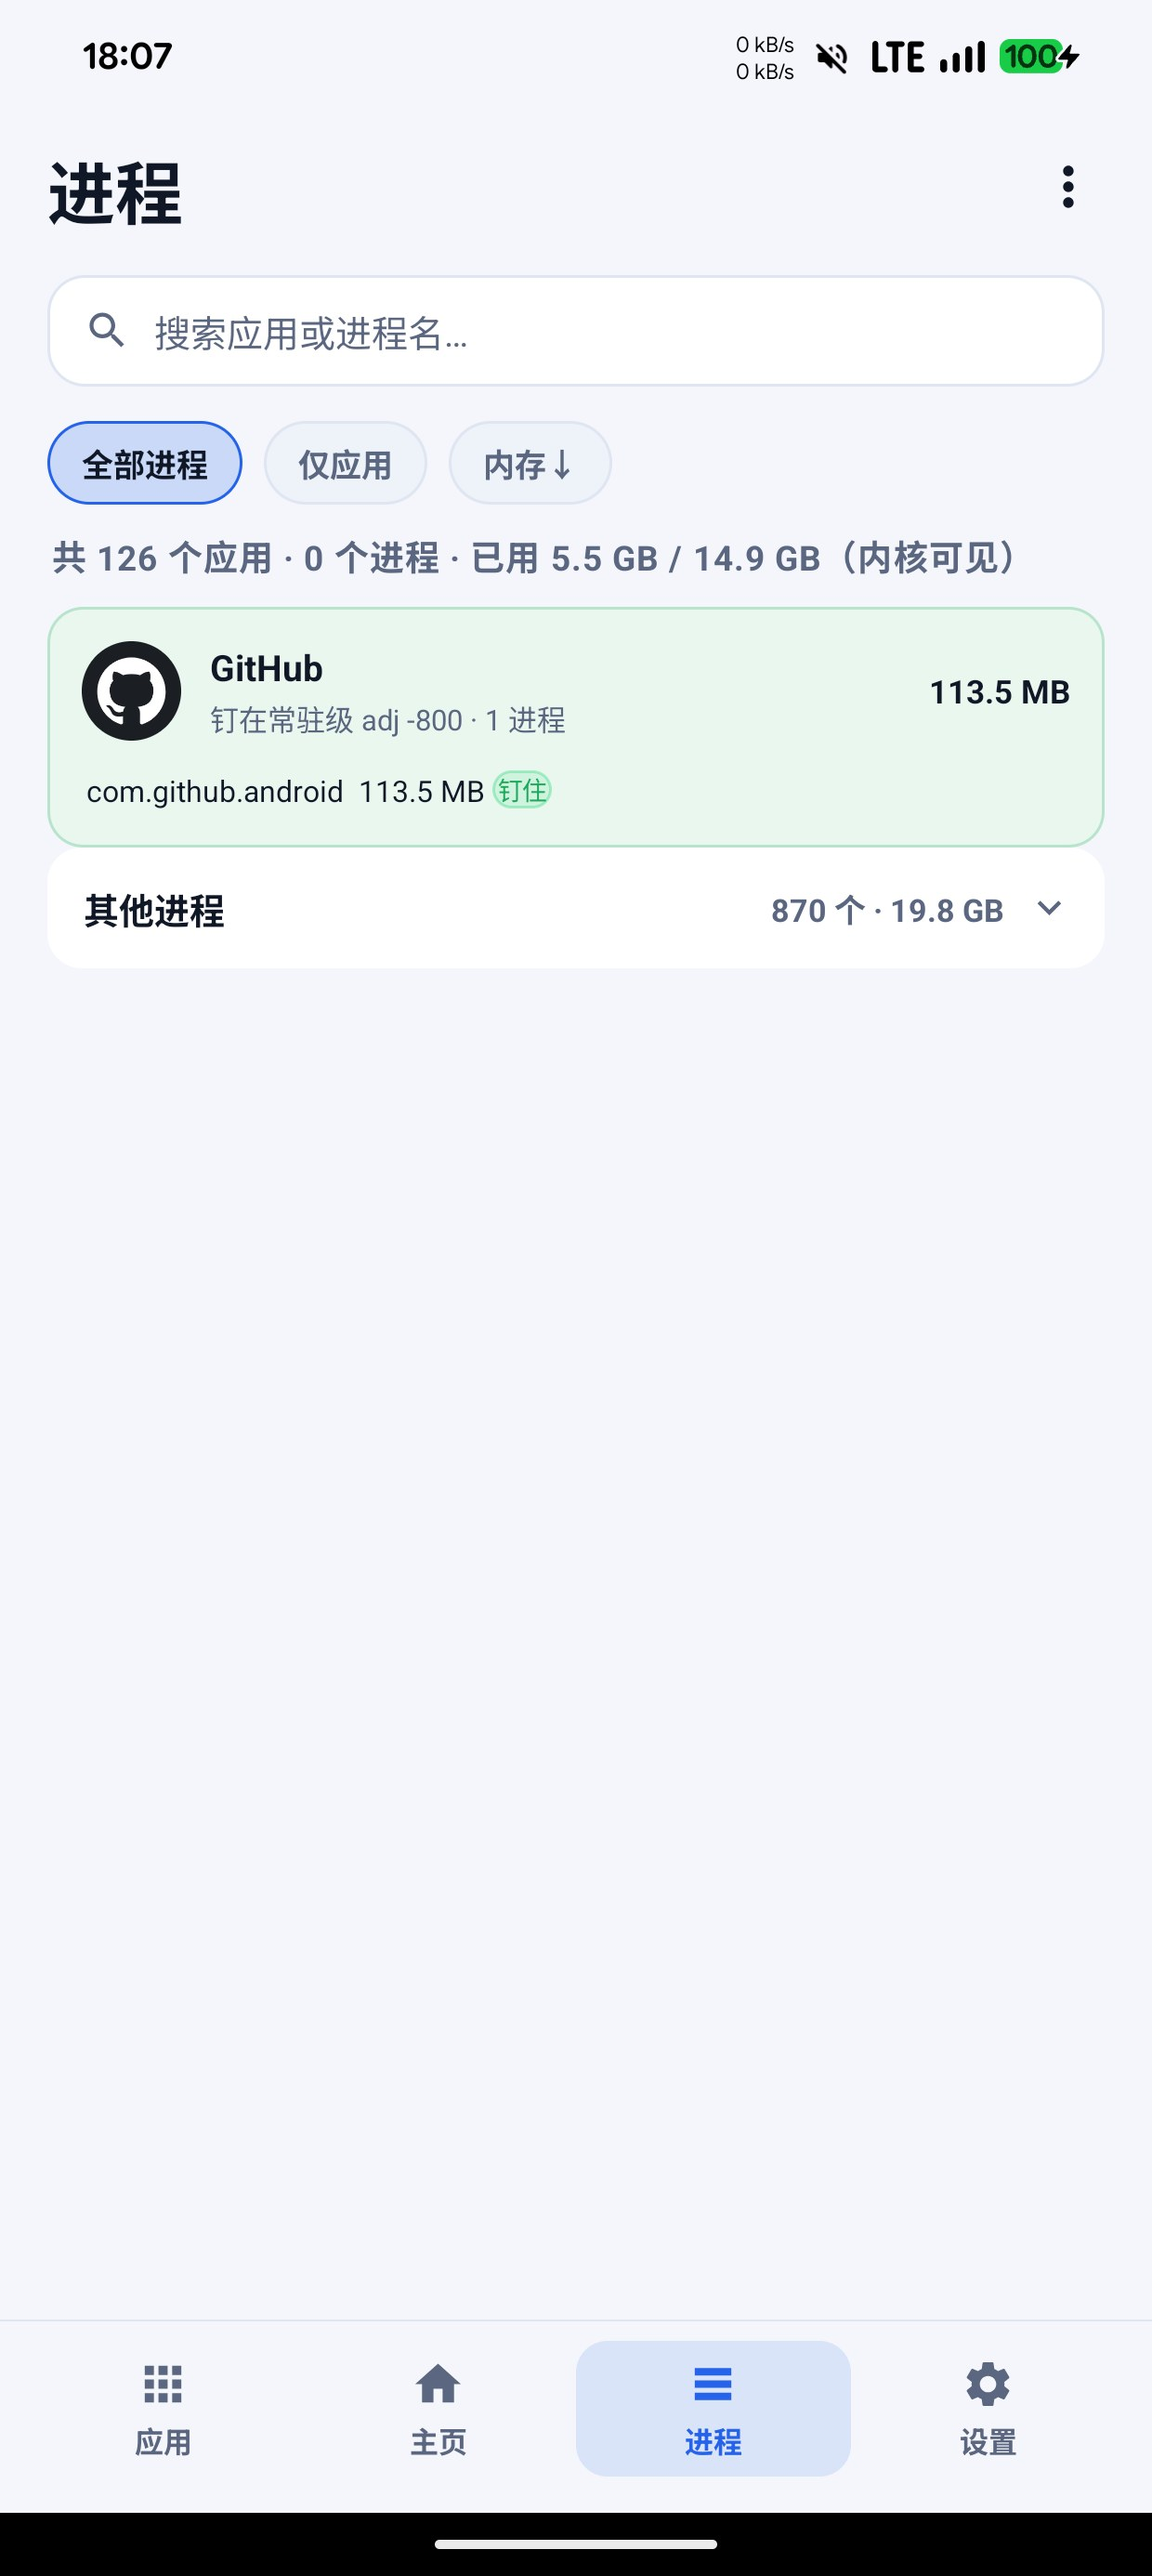
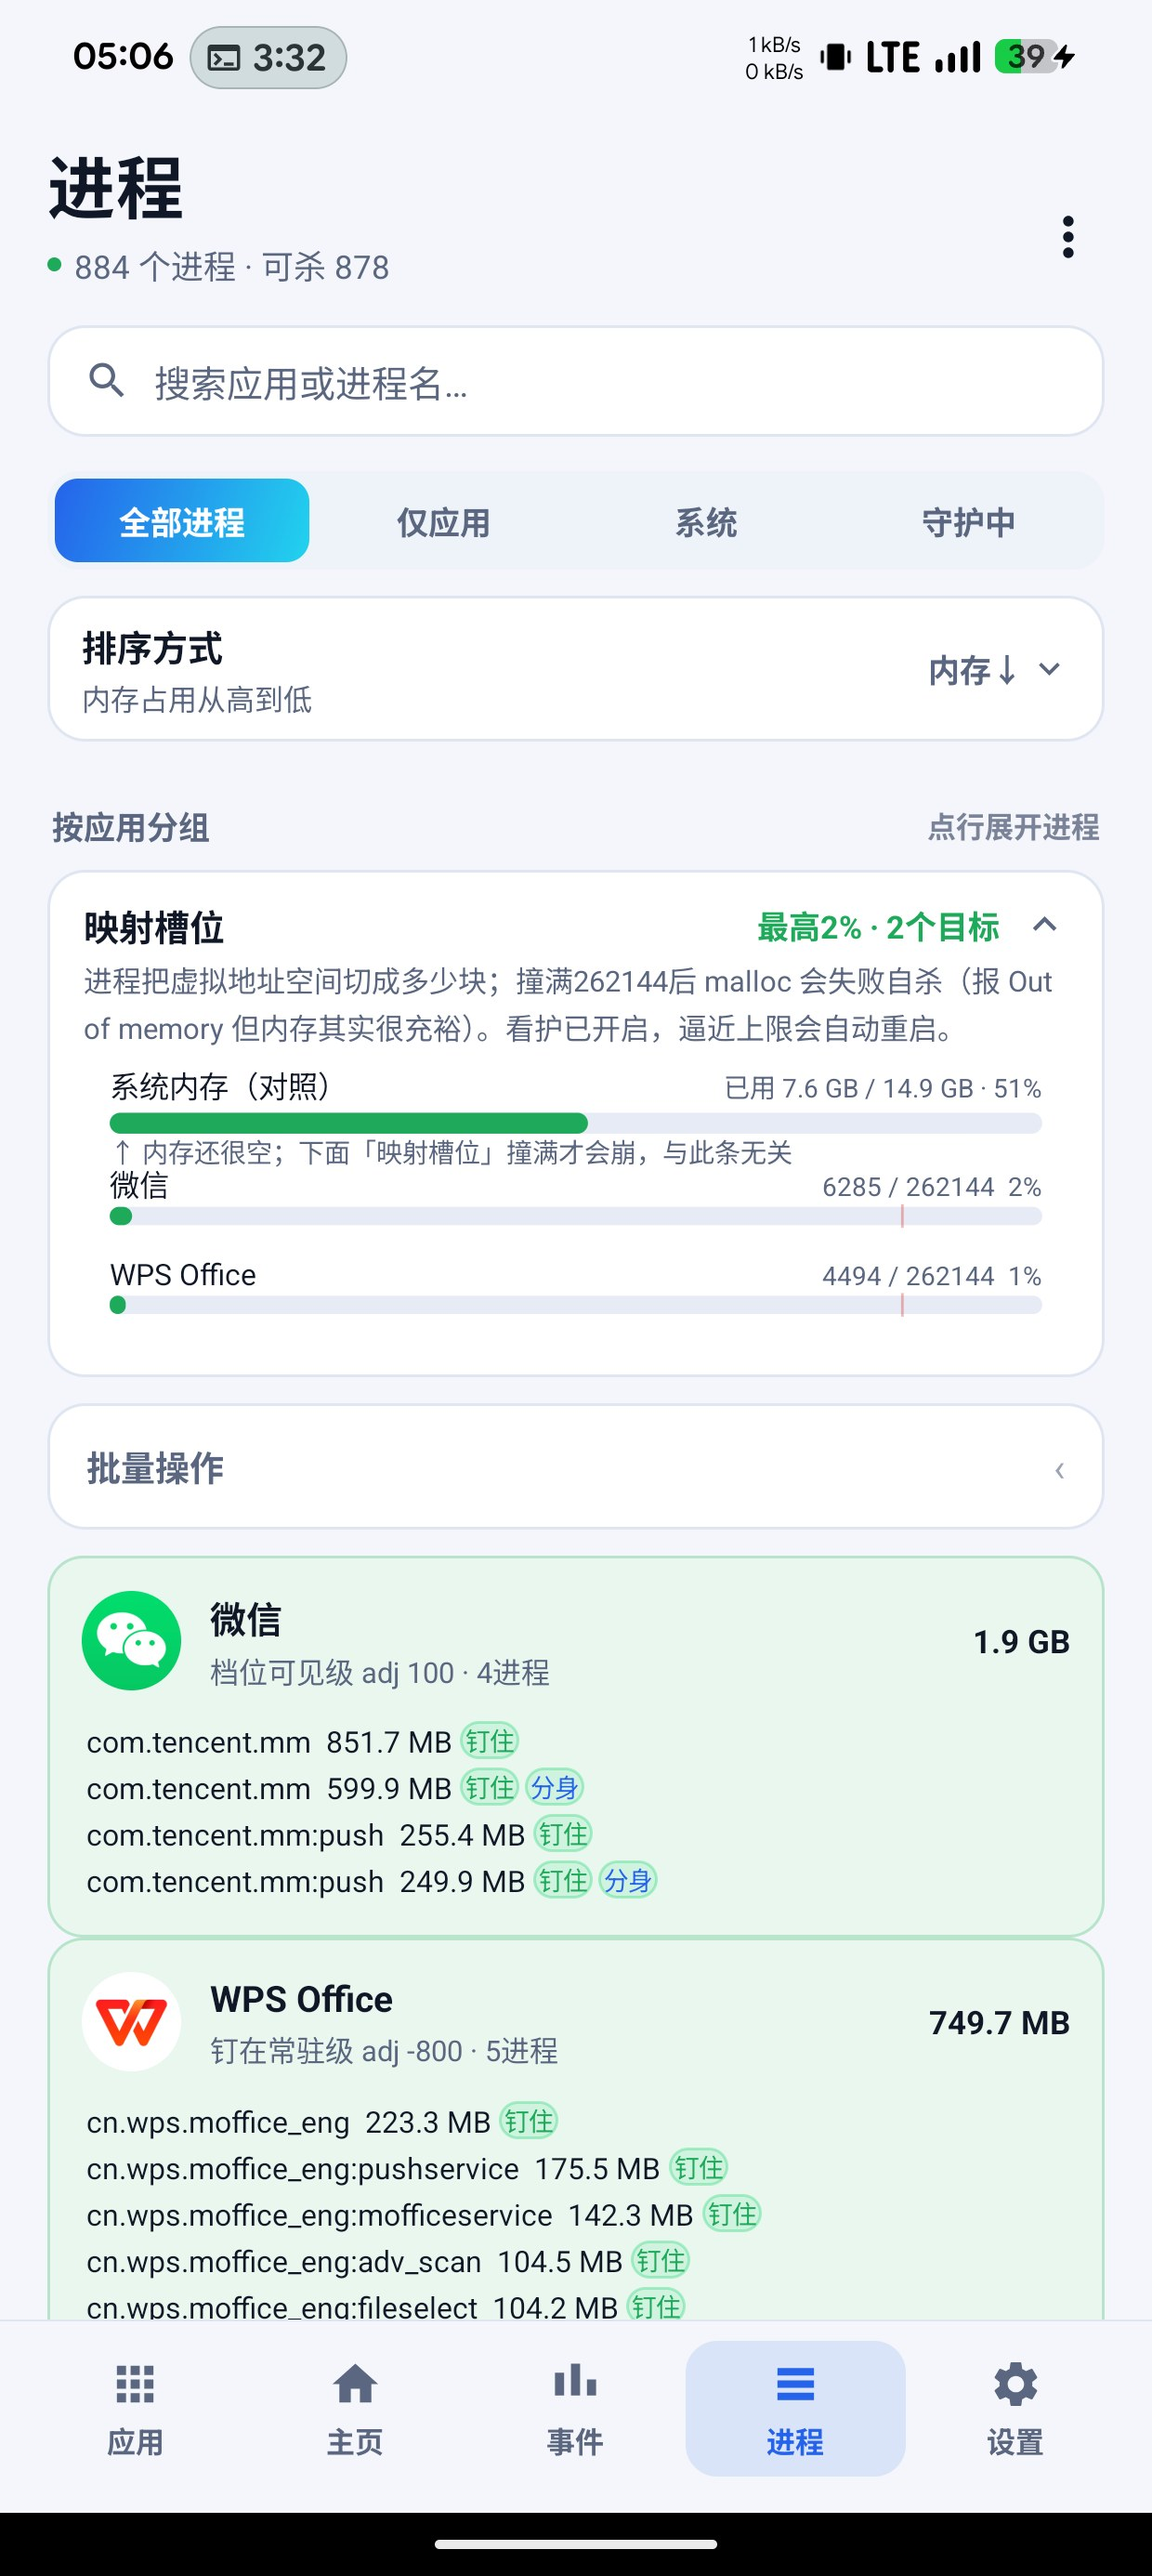
docs: 更新至 v3.5.2 build4363（五页导航含事件页 / 白屏与补拉修复 / debug 自动抓现场 / 新增 events 截图）

diff --git a/README.md b/README.md
@@ -14,7 +14,15 @@
 
 在 LSPosed Manager 中搜索「进程保活」安装，或从
 [Releases](https://github.com/Xposed-Modules-Repo/io.github.guys222.processkeepalive/releases) 下载最新 APK
-（如 `PKA-v3.5.0-build4232.apk`，已用项目专用 keystore 签名，可直接覆盖安装）。
+（如 `PKA-v3.5.2-build4363.apk`，已用项目专用 keystore 签名，可直接覆盖安装）。
+
+每个版本都发**两个包**，功能完全一样：
+
+- `PKA-v<版本>-build<号>.apk` —— 正式包，装给所有人；
+- `PKA-v<版本>-build<号>-debug.apk` —— 测试包，**遇到问题请装这个**：白屏、卡死（ANR）、拉不起来时
+  它会自动把现场存进 `/data/system/pka_hook.log`，导诊断包时一并带走。两者同签名，可互覆盖。
+
+**装完必须重启手机** —— 钩子跑在系统框架里，不重启加载的还是旧代码。
 
 启用后**必须**在 LSPosed 中把作用域勾上「**系统框架（android）**」——所有钩子都注入
 `system_server`，不勾这一项模块不工作。
@@ -23,16 +31,21 @@
 
 ## 界面
 
-底部四页导航：**主页 / 应用 / 进程 / 设置**，支持深色 / 浅色 / 跟随系统三种主题，附带 4×1 桌面小部件。
+底部五页导航：**应用 / 主页 / 事件 / 进程 / 设置**，支持深色 / 浅色 / 跟随系统三种主题，附带 4×1 桌面小部件。
 
-| 主页 | 应用 | 进程 | 设置 |
-| --- | --- | --- | --- |
-| ![主页](home.jpg) | ![应用](app.jpg) | ![进程](processes.jpg) | ![设置](settings.jpg) |
+| 应用 | 主页 | 事件 |
+| --- | --- | --- |
+| ![应用](app.jpg) | ![主页](home.jpg) | ![事件](events.jpg) |
 
-- **主页** — 模块激活状态、Bento 概览（守护中 / 运行中 / 消息保活）、24 小时存活曲线（可下钻到单个应用）、守护事件时间线
-- **应用** — 搜索与勾选目标应用，每个应用显示真实存活时长与「被杀 / 拉起」次数
-- **进程** — system_server 视角的实时进程看板（pid / 状态 / oom_adj / RSS / 运行时长），支持杀进程与导出快照
-- **设置** — 各保活能力开关、优先级档位、常驻通知、配置备份与恢复
+| 进程 | 设置 |
+| --- | --- |
+| ![进程](processes.jpg) | ![设置](settings.jpg) |
+
+- **应用** — 搜索与勾选目标应用，每个应用显示真实存活时长与「被杀 / 拉起」次数；分身（多开）应用单独标识
+- **主页** — 模块激活状态、Bento 概览（守护中 / 运行中 / 消息保活）、24 小时存活曲线（可下钻到单个应用）、本次开机守护与被杀排行
+- **事件** — 守护事件时间线（被杀 / 拉起 / 夭折 / 用户结束），带时间戳与类型徽标；顶部可按类型筛选、长按刷新按钮把本次开机全部事件**导出为 CSV**，另有近 24 小时存活折线
+- **进程** — system_server 视角的实时进程看板（pid / 状态 / oom_adj / RSS / 运行时长），含内存映射槽位看护，支持杀进程与导出快照
+- **设置** — 各保活能力开关、优先级档位、常驻通知、配置备份与恢复、导出诊断包
 
 ## 它能做什么
 
@@ -41,17 +54,19 @@
 | 降低 OOM Adj | 把目标进程优先级压低到「可见级」，LMK 不优先杀它 | 开 |
 | 阻止强制停止 | 拦截 `forceStopPackage`，设置里的「强行停止」失效（**保进程**） | 开 |
 | 阻止后台杀死 | 拦截 `killBackgroundProcesses`（**保进程**） | 开 |
+| 防止系统冻结 | 拦截 app freezer，避免进程被冻结后直接 SIGKILL（**保进程**） | 开 |
 | 强力模式 | 拦截 `ProcessRecord.kill` / `killPackageProcessesLocked`（**保进程·激进**） | 关 |
 | 常驻实验 | 把目标进程标记为 `persistent`，被杀后自动重启（**保进程·兜底**） | 关 |
 | 消息保活 | Doze/Standby 豁免 + 伪装前台防断连（**保进程**，顺带让界面不被回收） | 关 |
-| 页面保活 | 伪装进程为前台 TOP，系统不回收其 Activity（**保页面**） | 关 |
+| 页面保活 | 把进程状态伪装为 `BOUND_TOP` / `FOREGROUND_SERVICE`，系统不回收其 Activity（**保页面**） | 关 |
 | 开机自启动 | 重启后自动拉起已勾选的应用（system_server 内拉起，绕过后台限制） | 关 |
+| 三道防线 | 进程死亡后按「服务 → Provider → 界面」依次尝试拉回，界面拉起后自动退回后台 | 开 |
 
 > **「保进程」和「保页面」是两件事。**
 > 除「页面保活」外，所有开关只保证**进程不被杀**——应用回到前台时，界面（Activity）仍可能被
 > 系统回收并重新加载，这是 Android 的正常行为。
 >
-> 「页面保活」通过把进程伪装成前台 TOP 来阻止系统回收 Activity，**只对"由系统主动回收页面"
+> 「页面保活」通过把进程状态伪装成前台（`BOUND_TOP` / `FOREGROUND_SERVICE`）来阻止系统回收 Activity，**只对"由系统主动回收页面"
 > 的 ROM 有效**。若应用自己主动调用了 `finish()` 重建界面（如部分 App 检测到后台超时后主动
 > 重启自己的页面），框架层面拦不住，此时页面依然会重载。页面能否完整恢复也取决于应用自身
 > 有没有保存状态。
@@ -90,6 +105,30 @@ adb shell "cat /proc/<pid>/oom_score_adj"      # 值越低越不容易被杀
 ```
 
 ## 更新日志
+
+### v3.5.2（build 4363）
+
+**修复白屏** —— 页面保活会拦下「页面切后台」「页面被结束」，前提是「记录还在，页面就能原样回来」。
+但进程被杀之后，这条记录就只剩空壳：记录还挂在系统里，却没有任何进程能往它的窗口里画东西。
+用户点图标时系统复用的正是它 —— 窗口建出来、内容画不出来，**于是白屏**，直到应用自己重建一遍
+（就是那个「白屏然后首页刷新」）。没被杀过的应用不会这样，因为记录不是空壳。
+现在页面保活只保**活着的进程**的页面，宿主进程一旦不在，记录一律放行销毁。
+
+**修复「补拉之后应用赖在前台不走」** —— 上一版的保护条件里有一条「界面已就绪就跳过」，
+而等待界面就绪的循环恰恰是「就绪才跳出」，同一条判据在同一次调用里恒为真，
+于是界面一画出来就永远不送回后台。现在只看两件只有用户才能产生的事实：
+拉起**之前**它是否已在前台、它出现**之后**用户是否碰过屏幕。
+
+**第 4 路拉起（AMS 直拉）** —— 在 Android 17 上一直空转：方法找错了类（`startProcessLocked`
+在 `ProcessList` 上），参数也是瞎填的（引用类型全塞 null，必然调不通）。现在按真实签名填参；
+本机确实不支持时只记一行「不适用」，不再每几秒重试。
+
+**日志体积** —— 防冻分档原来每 20 次一条、每条罗列上百个包名，把日志撑到几 MB。
+现在按原因汇总、10 分钟一条。
+
+**debug 包新增「卡死」抓现场** —— 之前三个自动抓点全是为白屏选的，应用 ANR（卡死）时一个都不触发。
+现在挂了 `AMS.appNotResponding`，目标应用一 ANR 就自动存主线程栈 / CPU / 内存 / 系统 ANR 记录。
+（游戏前台卡顿仍然抓不到：模块不采帧数据，只能靠 CPU 与内存间接排除。）
 
 ### v3.5.0（build 4232）
 **新增功能**

diff --git a/README_en.md b/README_en.md
@@ -14,8 +14,17 @@ An LSPosed / Xposed-based Android background keep-alive module, mainly targeting
 ## Install
 
 Search for "进程保活" in LSPosed Manager, or download
-the latest APK (e.g. `PKA-v3.5.0-build4232.apk`) from [Releases](https://github.com/Xposed-Modules-Repo/io.github.guys222.processkeepalive/releases)
+the latest APK (e.g. `PKA-v3.5.2-build4363.apk`) from [Releases](https://github.com/Xposed-Modules-Repo/io.github.guys222.processkeepalive/releases)
 (signed with the project's own keystore, installs over previous builds).
+
+Every release ships **two** files; they are functionally identical:
+
+- `PKA-v<version>-build<num>.apk` — the normal build, for everyone;
+- `PKA-v<version>-build<num>-debug.apk` — **install this one if you have a problem**: on white
+  screen, ANR (hang) or a failed relaunch it saves the scene to `/data/system/pka_hook.log`,
+  which goes into the diagnostics package. Same key, they install over each other.
+
+**Reboot after installing** — hooks live in the system framework; until then the old code runs.
 
 After enabling the module you **must** tick the "**System framework (android)**" scope in LSPosed — all hooks are injected into `system_server`, and nothing works without it.
 
@@ -23,7 +32,18 @@ After enabling the module you **must** tick the "**System framework (android)**"
 
 ## UI
 
-Four bottom tabs: **Home / Apps / Processes / Settings**, with dark / light / follow-system themes and a 4×1 home-screen widget.
+Five bottom tabs: **Apps / Home / Events / Processes / Settings**, with dark / light / follow-system themes and a 4×1 home-screen widget.
+
+| Apps | Home | Events |
+| --- | --- | --- |
+| ![Apps](app.jpg) | ![Home](home.jpg) | ![Events](events.jpg) |
+
+| Processes | Settings |
+| --- | --- |
+| ![Processes](processes.jpg) | ![Settings](settings.jpg) |
+
+- **Events** — guard event timeline (killed / relaunched / died young / user-stopped) with type
+  filters, CSV export by long-pressing refresh, and a 24-hour survival sparkline.
 
 | Home | Apps | Processes | Settings |
 | --- | --- | --- | --- |
@@ -98,6 +118,19 @@ adb shell "cat /proc/<pid>/oom_score_adj"      # lower = less likely to be kille
 ```
 
 ## Changelog
+
+### v3.5.2 (build 4363)
+
+- **Fixed white screen.** Screen keep-alive kept an ActivityRecord whose host process was gone;
+  that record is an empty shell — the window is created but nothing can draw into it, and the
+  system reuses it when you tap the icon. Keep-alive now only keeps records whose process is alive.
+- **Fixed "app stays in the foreground after being pulled back".** The old guard ("skip sending
+  back if the UI is ready") was always true, because the wait loop only exits once the UI is ready.
+- **4th relaunch route** (`ProcessList.startProcessLocked`): correct class and arguments; gives up
+  quietly on ROMs that do not support it.
+- **Log size**: freeze diagnostics now aggregate per reason, once per 10 minutes.
+- **debug build**: target-app ANR now auto-captures the scene; game frame drops are still not
+  measurable (no frame stats are collected).
 
 ### v3.5.0 (build 4232)
 **New features**
